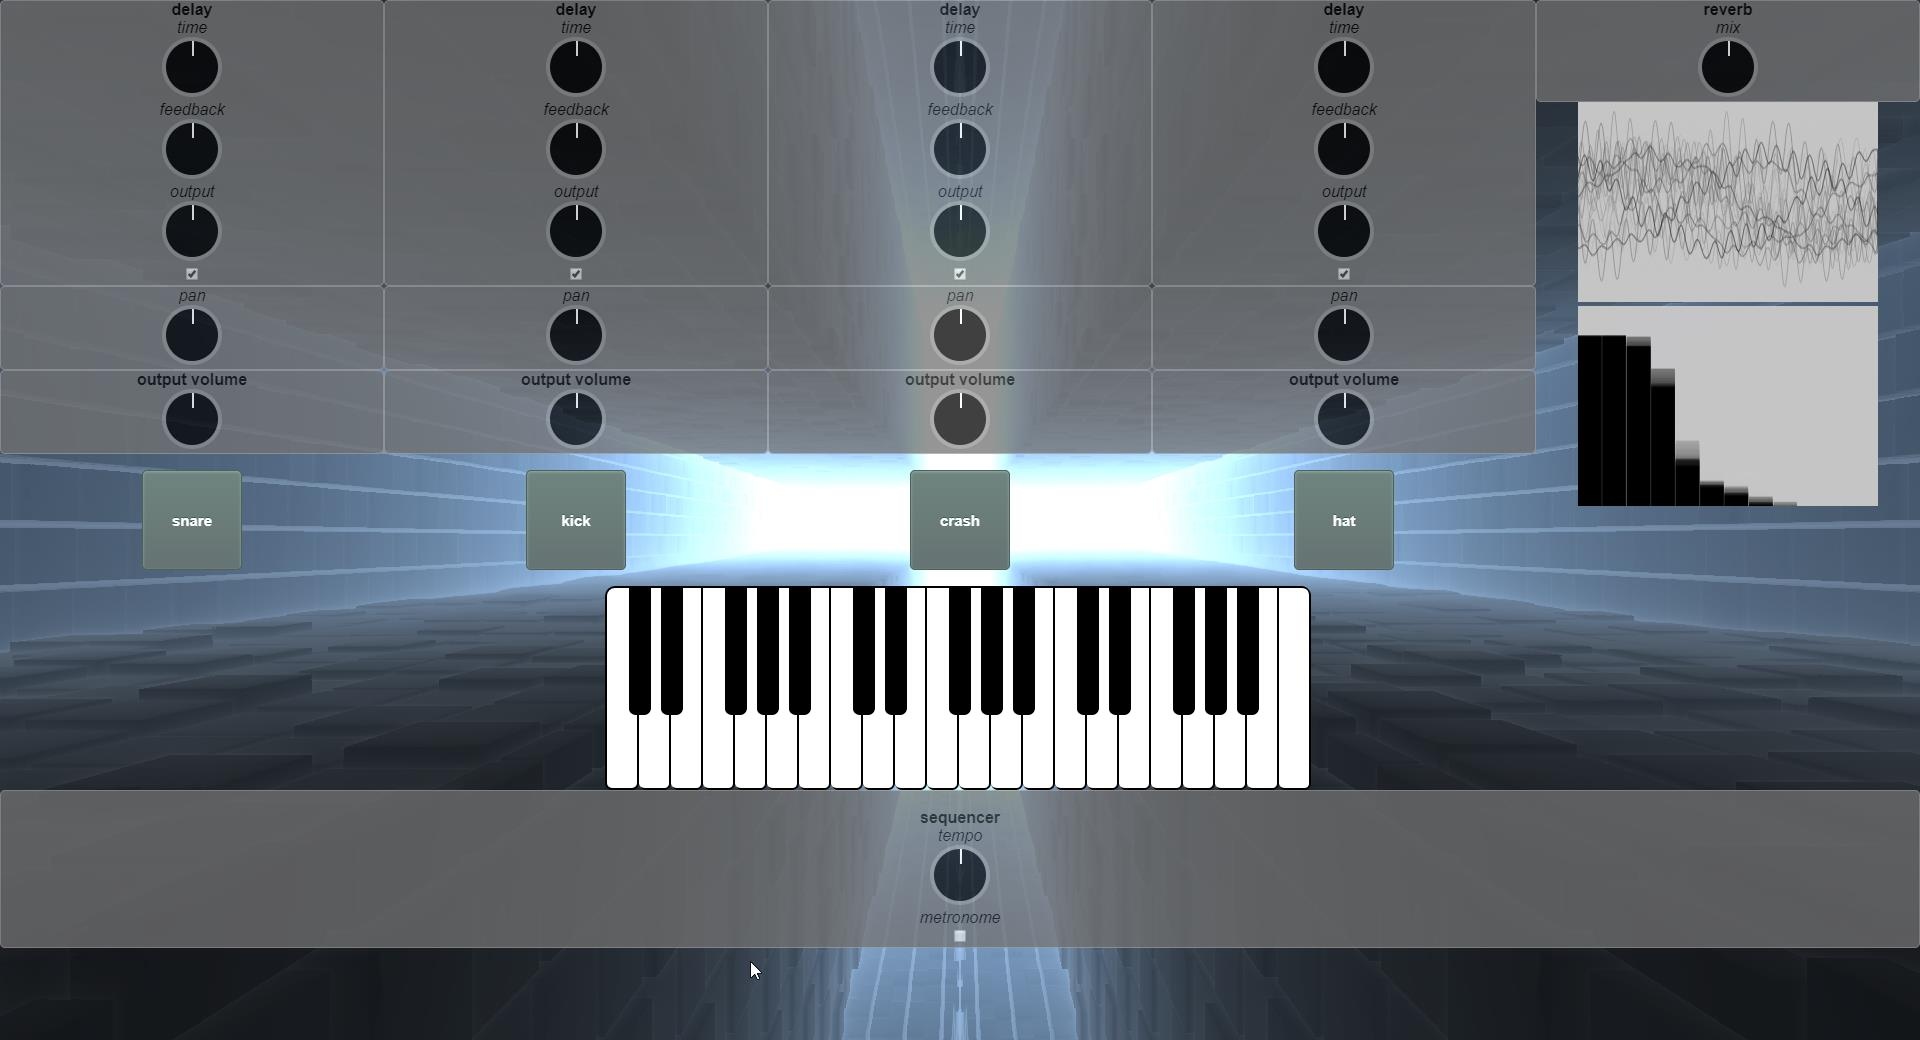
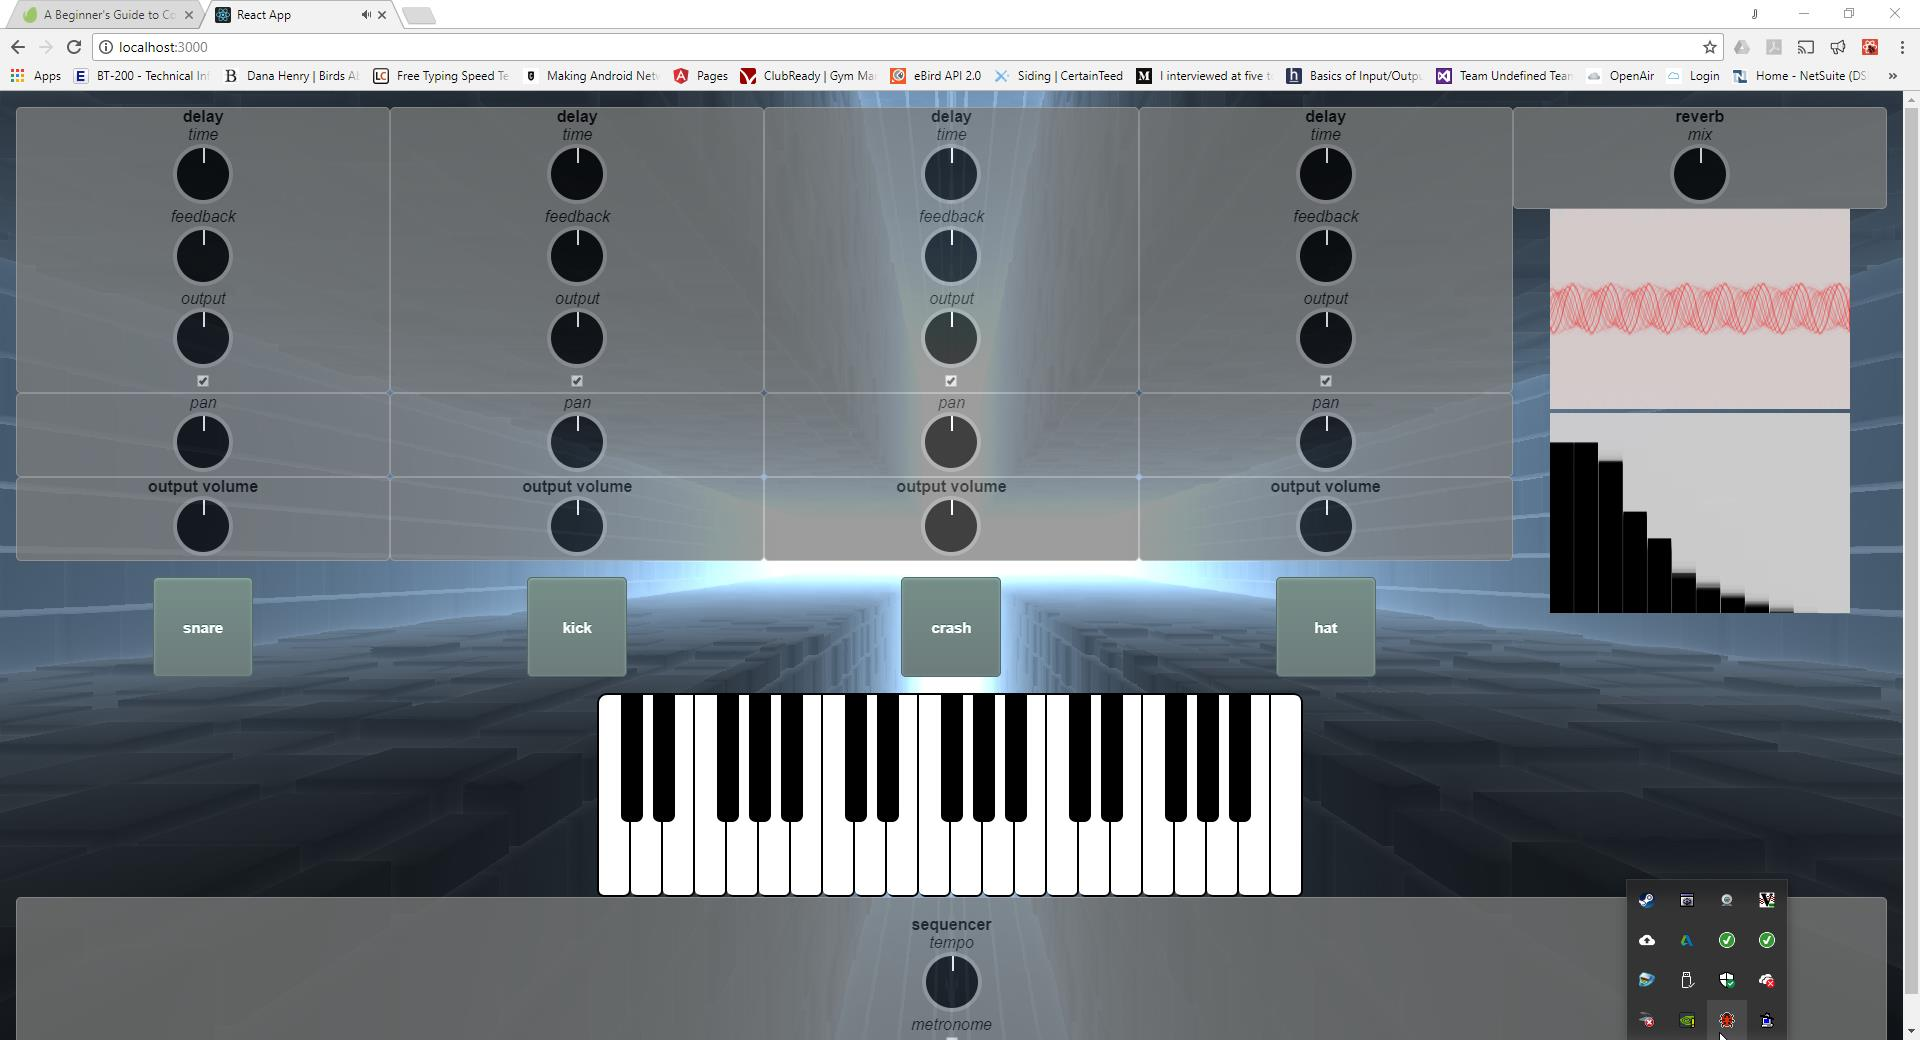
small layout update

diff --git a/src/visualizers/BasicAnalyzer.tsx b/src/visualizers/BasicAnalyzer.tsx
@@ -45,7 +45,7 @@ export default class BasicAnalyzer extends React.Component<Props, State> {
         ctx.fillRect(0, 0, this.canvas.width, this.canvas.height);
 
         ctx.lineWidth = 1;
-        ctx.strokeStyle = 'rgba(0, 0, 0, .5)';
+        ctx.strokeStyle = 'rgba(255, 0, 0, .5)';
 
         ctx.beginPath();
 

diff --git a/src/App.css b/src/App.css
@@ -1,5 +1,6 @@
 .App {
   text-align: center;
+  margin: 16px
 }
 
 .App-logo {
